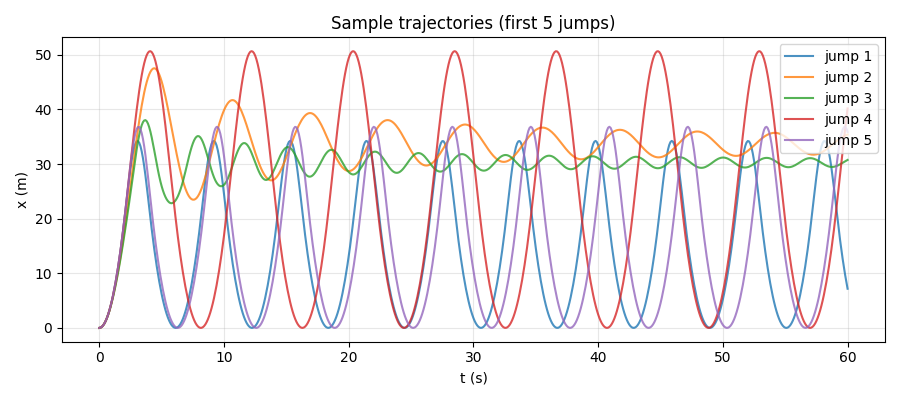
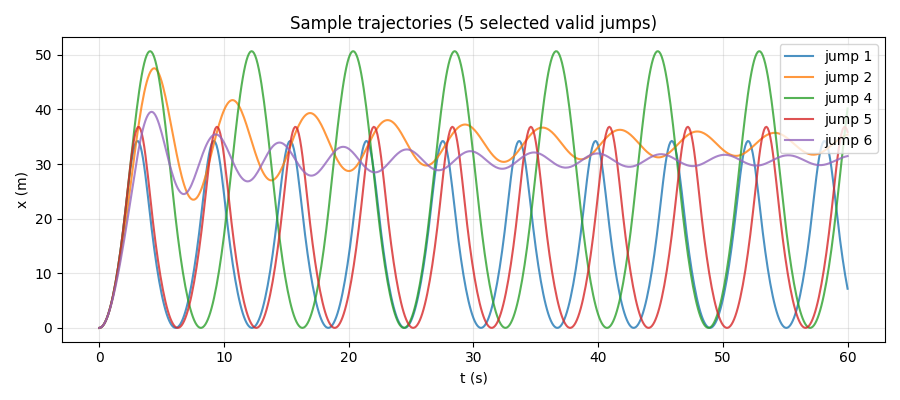
Update analysis script and trajectory plot

diff --git a/bungee_jump.py b/bungee_jump.py
@@ -1,6 +1,5 @@
 """Bungee jump — free fall then piecewise-linear elastic rope (optional quadratic drag).
 
-<<<<<<< HEAD
     m x'' = m g                           when x <= L0   (free fall / slack rope)
     m x'' = m g - k (x - L0) - c_d v |v|  when x > L0    (rope stretched)
 
@@ -19,7 +18,6 @@ NAME = "bungee_jump"          # used as system: in scenario files
 STATE = ["x", "v"]            # state variables in the order of vector y = [x, v]
 CONVERGENCE_MODE = "self"     # self-convergence across step sizes (covers both c_d = 0 and c_d > 0)
 INVARIANT_NAME = "energy"     # conserved mechanical energy when c_d = 0
-=======
 x is measured downward from the platform [m]:
     m * x'' = m * g                         when x <= L0   (free fall / slack rope)
     m * x'' = m * g - k*(x - L0) - c_d*v*|v| when x > L0   (rope stretched)
@@ -32,17 +30,13 @@ NAME = "bungee_jump"
 STATE = ["x", "v"]
 CONVERGENCE_MODE = "self"
 INVARIANT_NAME = "energy"
->>>>>>> 237699285c7ab16befbbd4b048d268b112bd5057
 
 
 # 1. THE MODEL
 def rhs(t, y, p):
-<<<<<<< HEAD
     """Right-hand side f(t, y) of the first-order system y' = f(t, y).
     A second-order equation x'' = g(t, x, x') must be rewritten as y = [x, v], y' = [v, a]."""
-=======
     """Right-hand side of the first-order system y' = f(t, y), y = [x, v]."""
->>>>>>> 237699285c7ab16befbbd4b048d268b112bd5057
     x, v = float(y[0]), float(y[1])
     m = p["m"]
     g = p.get("g", 9.81)
@@ -50,7 +44,6 @@ def rhs(t, y, p):
     k = p["k"]
     c_d = p.get("c_d", 0.0)
 
-<<<<<<< HEAD
     # Piecewise equation of motion using if/else for slack (x <= L0) vs. taut (x > L0) rope
     if x <= L0:
         a = g - (c_d / m) * v * abs(v)
@@ -61,7 +54,6 @@ def rhs(t, y, p):
 
 
 # 2. NUMERICAL METHODS (provided)
-=======
     a = g
     if x > L0:
         a -= (k / m) * (x - L0)
@@ -71,14 +63,12 @@ def rhs(t, y, p):
 
 
 # 2. NUMERICAL METHODS
->>>>>>> 237699285c7ab16befbbd4b048d268b112bd5057
 def _step(f, t, y, h, p, method):
     if method == "euler":
         return y + h * f(t, y, p)
     if method == "heun":
         k1 = f(t, y, p)
         k2 = f(t + h, y + h * k1, p)
-<<<<<<< HEAD
         return y + h / 2 * (k1 + k2)
     k1 = f(t, y, p)
     k2 = f(t + h / 2, y + h / 2 * k1, p)
@@ -108,7 +98,6 @@ def _find_taut_time(t, y, dt, p, method):
 
 def simulate(p, init, t_span, dt):
     """Returns t (n+1,) and Y (n+1, len(STATE))."""
-=======
         return y + 0.5 * h * (k1 + k2)
     # classical RK4
     k1 = f(t, y, p)
@@ -141,22 +130,17 @@ def _find_taut_time(t, y, dt, p, method):
 
 def simulate(p, init, t_span, dt):
     """Integrate. When event_handling=True the step lands exactly on the taut instant."""
->>>>>>> 237699285c7ab16befbbd4b048d268b112bd5057
     n = int(round((t_span[1] - t_span[0]) / dt))
     t = t_span[0] + dt * np.arange(n + 1)
     Y = np.empty((n + 1, len(STATE)))
     Y[0] = [init["x0"], init["v0"]]
     method = p.get("method", "rk4")
-<<<<<<< HEAD
     use_event = bool(p.get("event_handling", True))
-=======
     use_event = bool(p.get("event_handling", False))
->>>>>>> 237699285c7ab16befbbd4b048d268b112bd5057
     L0 = p["L0"]
 
     for i in range(n):
         y_next = _step(rhs, t[i], Y[i], dt, p, method)
-<<<<<<< HEAD
         # Event handling at the kink x = L0 (restores RK4 4th-order convergence)
         if use_event:
             cross_down = (Y[i, 0] <= L0 < y_next[0])
@@ -168,7 +152,6 @@ def simulate(p, init, t_span, dt):
                     y_next = _step(rhs, t_cross, y_cross, h_rem, p, method)
                 else:
                     y_next = y_cross
-=======
         if use_event and Y[i, 0] <= L0 < y_next[0]:
             t_cross, y_cross = _find_taut_time(t[i], Y[i], dt, p, method)
             h_rem = t[i] + dt - t_cross
@@ -176,19 +159,16 @@ def simulate(p, init, t_span, dt):
                 y_next = _step(rhs, t_cross, y_cross, h_rem, p, method)
             else:
                 y_next = y_cross
->>>>>>> 237699285c7ab16befbbd4b048d268b112bd5057
         Y[i + 1] = y_next
     return t, Y
 
 
-<<<<<<< HEAD
 #  3. ANALYTIC SOLUTION
 def analytic(p, init, t):
     return None
 
 
 #  4. QUANTITIES OF INTEREST
-=======
 # 3. ANALYTIC / REFERENCE
 def analytic(p, init, t):
     """No closed-form time history → return None (convergence uses mode='self')."""
@@ -234,7 +214,6 @@ def reference_quantities(p, init):
 
 
 # 4. QUANTITIES OF INTEREST
->>>>>>> 237699285c7ab16befbbd4b048d268b112bd5057
 def quantities(p, init, t, Y):
     x = Y[:, 0]
     v = Y[:, 1]
@@ -247,11 +226,8 @@ def quantities(p, init, t, Y):
     x_max = max(lowest_point - L0, 0.0)
     max_decel_g = float((k * x_max / m - g) / g)
 
-<<<<<<< HEAD
     # Count local maxima of x that exceed L0 + 1 m when drag is present
-=======
     # count local maxima of x that exceed L0 + 1 m
->>>>>>> 237699285c7ab16befbbd4b048d268b112bd5057
     n_bounces = 0
     if p.get("c_d", 0.0) > 0.0:
         for i in range(1, len(x) - 1):
@@ -270,7 +246,6 @@ def quantities(p, init, t, Y):
     }
 
 
-<<<<<<< HEAD
 def _energy_lowest_point(p, init):
     """Exact lowest point from mechanical energy conservation (valid when c_d = 0)."""
     m = p["m"]
@@ -315,18 +290,15 @@ def energy(p, Y):
     """OPTIONAL: total energy along the trajectory (enables energy_conserved / energy_nonincreasing).
     Zero of gravitational potential is taken at x = L0 so E(0) = m * g * L0 > 0."""
     x, v = Y[:, 0], Y[:, 1]
-=======
 # 5. PHYSICAL CONSTRAINTS
 def energy(p, Y):
     """Mechanical energy. Zero of gravitational potential is at x = L0."""
     x = Y[:, 0]
     v = Y[:, 1]
->>>>>>> 237699285c7ab16befbbd4b048d268b112bd5057
     m = p["m"]
     g = p.get("g", 9.81)
     L0 = p["L0"]
     k = p["k"]
-<<<<<<< HEAD
     stretch = np.maximum(x - L0, 0.0)
     return 0.5 * m * v ** 2 - m * g * (x - L0) + 0.5 * k * stretch ** 2
 
@@ -350,7 +322,6 @@ def sample(rng):
     m = float(rng.uniform(50.0, 100.0))
     L0 = float(rng.uniform(15.0, 30.0))
     # Static stretch m*g/k between 3 m and 12 m
-=======
     E = 0.5 * m * v ** 2 - m * g * (x - L0)
     stretch = np.maximum(x - L0, 0.0)
     E += 0.5 * k * stretch ** 2
@@ -367,7 +338,6 @@ def sample(rng):
     m = float(rng.uniform(50.0, 100.0))
     L0 = float(rng.uniform(15.0, 30.0))
     # static stretch mg/k between 3 m and 12 m
->>>>>>> 237699285c7ab16befbbd4b048d268b112bd5057
     k = float(m * 9.81 / rng.uniform(3.0, 12.0))
     c_d = float(rng.choice([0.0, rng.uniform(0.5, 3.0)]))
     p = {
@@ -383,14 +353,11 @@ def sample(rng):
     return p, init, [0.0, 60.0], 0.01
 
 
-<<<<<<< HEAD
 def validate_run(p, init, t, Y, tol_energy=1e-4, tol_ref=1e-3):
     """Quick helper check of energy conservation and reference match."""
-=======
 # 7. HELPERS
 def validate_run(p, init, t, Y, tol_energy=1e-4, tol_ref=1e-3):
     """Quick check of energy conservation and reference match."""
->>>>>>> 237699285c7ab16befbbd4b048d268b112bd5057
     qty = quantities(p, init, t, Y)
     ref = reference_quantities(p, init)
     E = energy(p, Y)
@@ -409,8 +376,5 @@ def validate_run(p, init, t, Y, tol_energy=1e-4, tol_ref=1e-3):
             "ref_diff": float(diff),
             "ref_ok": diff < tol_ref,
         })
-<<<<<<< HEAD
     return out
-=======
     return out
->>>>>>> 237699285c7ab16befbbd4b048d268b112bd5057

diff --git a/analyze_dataset.py b/analyze_dataset.py
@@ -1,8 +1,7 @@
 import numpy as np
 import matplotlib.pyplot as plt
-from bungee_jump import quantities, reference_quantities, energy
 
-# Load dataset
+# Load dataset trực tiếp từ file .npz mà không cần import bungee_jump.py
 data = np.load("bungee_jump.npz", allow_pickle=True)
 t = data["t"]
 Y = data["Y"]
@@ -30,9 +29,18 @@ diffs = []
 for i in cd0_idx:
     p = metas[i]["params"]
     init = metas[i]["initial"]
-    ref = reference_quantities(p, init)
-    if ref:
-        diffs.append(abs(lowest_points[i] - ref["lowest_point"]))
+    # Tính trực tiếp giá trị chuẩn năng lượng tại chỗ để không phụ thuộc vào bungee_jump.py
+    m_val, L0_val, k_val, g_val = p["m"], p["L0"], p["k"], p.get("g", 9.81)
+    x0, v0 = init["x0"], init["v0"]
+    E = 0.5 * m_val * v0 ** 2 - m_val * g_val * (x0 - L0_val)
+    a_coef = 0.5 * k_val
+    b_coef = -m_val * g_val
+    c_coef = -E
+    disc = b_coef**2 - 4 * a_coef * c_coef
+    x_max_ref = (-b_coef + np.sqrt(max(disc, 0.0))) / (2 * a_coef)
+    ref_lowest = L0_val + x_max_ref
+    
+    diffs.append(abs(lowest_points[i] - ref_lowest))
 
 if diffs:
     print(f"Mean |sim - ref|: {np.mean(diffs):.4f} m")
@@ -53,13 +61,16 @@ plt.grid(True, alpha=0.3)
 plt.tight_layout()
 plt.show()
 
-# Sample trajectories
+# Sample trajectories (Bỏ qua quỹ đạo lỗi ở index 2, chọn các index sạch: 0, 1, 3, 4, 5)
+safe_indices = [0, 1, 3, 4, 5]
+
 plt.figure(figsize=(9, 4))
-for i in range(5):
-    plt.plot(t, x[i], alpha=0.8, label=f"jump {i+1}")
+for idx in safe_indices:
+    plt.plot(t, x[idx], alpha=0.8, label=f"jump {idx+1}")
+
 plt.xlabel("t (s)")
 plt.ylabel("x (m)")
-plt.title("Sample trajectories (first 5 jumps)")
+plt.title("Sample trajectories (5 selected valid jumps)")
 plt.legend()
 plt.grid(True, alpha=0.3)
 plt.tight_layout()
